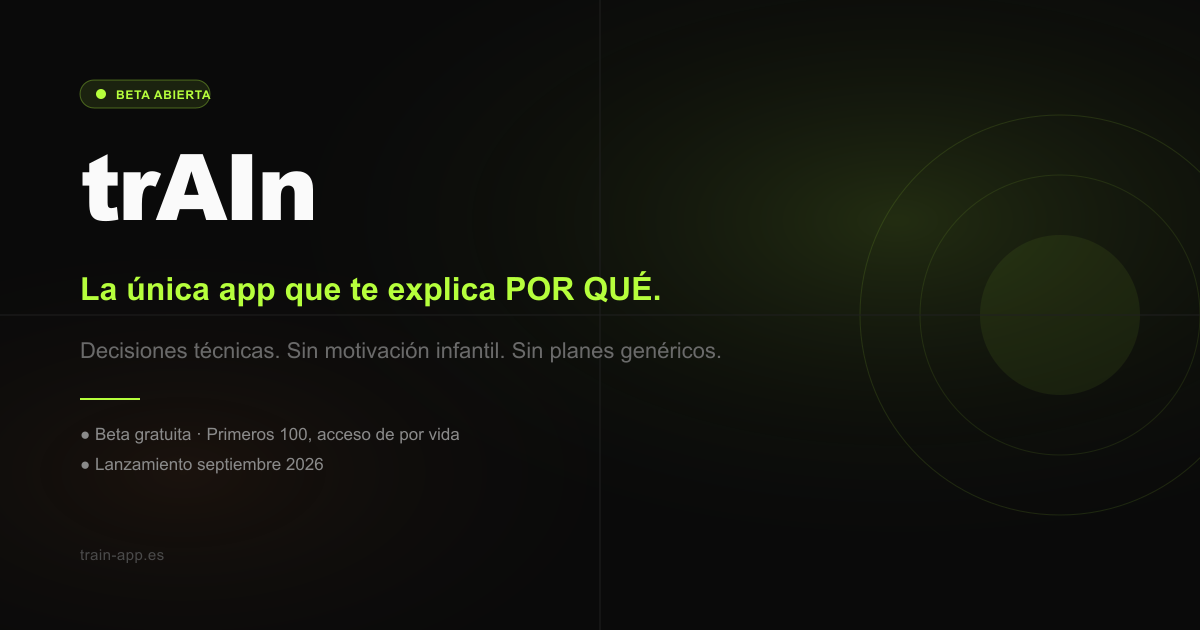
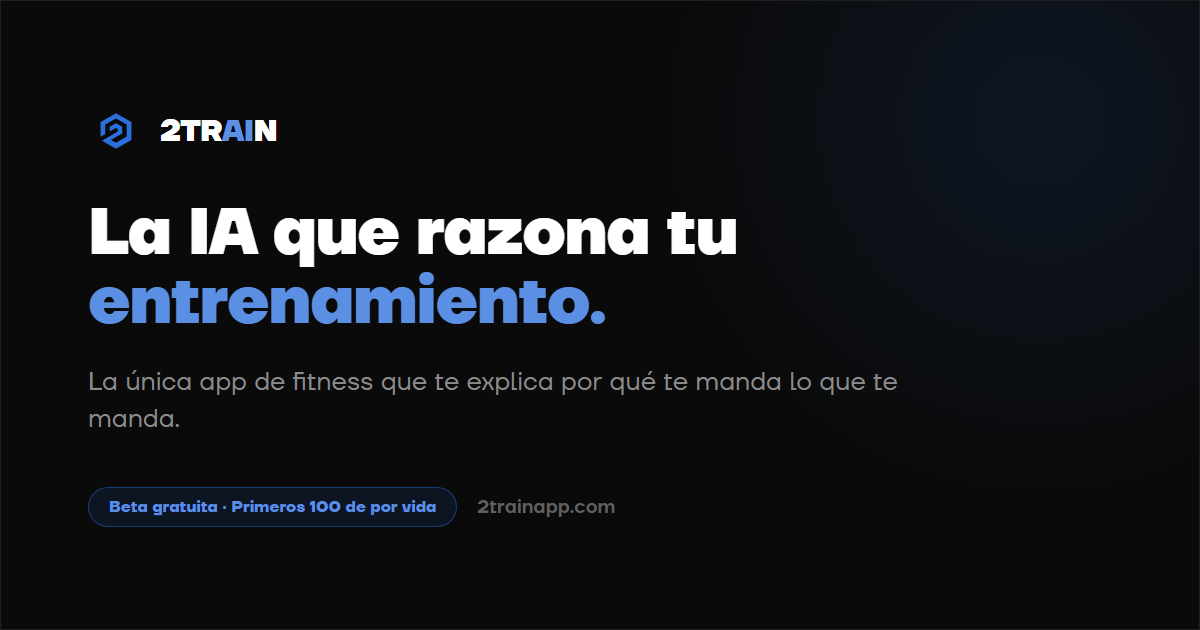
Rediseña og-image.png con la marca actual
La imagen de vista previa al compartir enlaces era de una versión antigua
(logo distinto, verde en vez de azul, dominio train-app.es incorrecto).
Nueva composición Remotion (OgImage.tsx) reutiliza el kit de marca —
hexágono azul, TT Firs Neue, dominio 2trainapp.com — renderizada a
1200x630 con `remotion still`.

diff --git a/remotion/src/OgImage.tsx b/remotion/src/OgImage.tsx
@@ -1,0 +1,79 @@
+import React from "react";
+import { AbsoluteFill } from "remotion";
+import { BRAND } from "./theme";
+
+const Hexagon: React.FC<{ size: number }> = ({ size }) => (
+  <svg width={size} height={size} viewBox="0 0 2000 2000" style={{ flexShrink: 0 }}>
+    <g transform="matrix(1.33609,-0.00055,0.000533,1.293904,-335.898989,-46.853899)">
+      <path
+        d="M587.617,969.869L711.088,898.739L711.088,630.325L1000,466.592L1285.494,628.983L1285.494,963.159L1000,1132.26L866.768,1055.761L1164.708,881.292L1164.708,686.692L1000,594.089L830.532,692.06L830.532,822.241L1000,725.612L1045.263,756.48L1046.606,823.583L622.511,1077.235L1000,1300.018L1411.649,1059.788L1412.991,561.879L1000,318.965L586.275,563.221L587.617,969.869"
+        fill={BRAND.accent}
+      />
+    </g>
+  </svg>
+);
+
+export const OG_WIDTH = 1200;
+export const OG_HEIGHT = 630;
+
+export const OgImage: React.FC = () => (
+  <AbsoluteFill style={{ backgroundColor: BRAND.bg, fontFamily: BRAND.fontBody }}>
+    {/* Glow de marca, esquina superior derecha */}
+    <div
+      style={{
+        position: "absolute",
+        right: -220,
+        top: -260,
+        width: 760,
+        height: 760,
+        borderRadius: "50%",
+        background: `radial-gradient(circle, ${BRAND.accentSoft} 0%, transparent 70%)`,
+      }}
+    />
+    <div
+      style={{
+        position: "absolute",
+        inset: 0,
+        border: `1px solid ${BRAND.line}`,
+      }}
+    />
+
+    <div style={{ position: "relative", display: "flex", flexDirection: "column", justifyContent: "center", height: "100%", padding: "0 88px" }}>
+      {/* Lockup del logo */}
+      <div style={{ display: "flex", alignItems: "center", gap: 16, marginBottom: 40 }}>
+        <Hexagon size={56} />
+        <span style={{ fontSize: 30, fontWeight: 800, color: "#fff", letterSpacing: "-0.02em" }}>
+          2TR<span style={{ color: BRAND.accent2 }}>AI</span>N
+        </span>
+      </div>
+
+      {/* Titular */}
+      <div style={{ fontSize: 66, fontWeight: 800, color: "#fff", lineHeight: 1.05, letterSpacing: "-0.02em", maxWidth: 980 }}>
+        La IA que razona tu <span style={{ color: BRAND.accent2 }}>entrenamiento.</span>
+      </div>
+
+      {/* Subtítulo */}
+      <div style={{ fontSize: 26, fontWeight: 400, color: BRAND.muted, marginTop: 26, maxWidth: 820, lineHeight: 1.45 }}>
+        La única app de fitness que te explica por qué te manda lo que te manda.
+      </div>
+
+      {/* Pie: badge + dominio */}
+      <div style={{ display: "flex", alignItems: "center", gap: 20, marginTop: 48 }}>
+        <span
+          style={{
+            background: BRAND.accentSoft,
+            border: `1px solid rgba(42, 111, 219, 0.45)`,
+            color: BRAND.accent2,
+            fontSize: 16,
+            fontWeight: 700,
+            padding: "9px 20px",
+            borderRadius: 999,
+          }}
+        >
+          Beta gratuita · Primeros 100 de por vida
+        </span>
+        <span style={{ color: "#5f5f5f", fontSize: 19, fontWeight: 600, letterSpacing: "0.01em" }}>2trainapp.com</span>
+      </div>
+    </div>
+  </AbsoluteFill>
+);

diff --git a/remotion/src/Root.tsx b/remotion/src/Root.tsx
@@ -7,10 +7,19 @@ import { SustReel, SUST_DURATION, SUST_FPS } from "./SustReel";
 import { WhyReelEN, WHY_EN_DURATION, WHY_EN_FPS } from "./WhyReelEN";
 import { MejoraReelEN, MEJORA_EN_DURATION, MEJORA_EN_FPS } from "./MejoraReelEN";
 import { SustReelEN, SUST_EN_DURATION, SUST_EN_FPS } from "./SustReelEN";
+import { OgImage, OG_WIDTH, OG_HEIGHT } from "./OgImage";
 
 export const RemotionRoot: React.FC = () => {
   return (
     <>
+      <Composition
+        id="OgImage"
+        component={OgImage}
+        durationInFrames={1}
+        fps={30}
+        width={OG_WIDTH}
+        height={OG_HEIGHT}
+      />
       <Composition
         id="ReelWhy"
         component={WhyReel}
